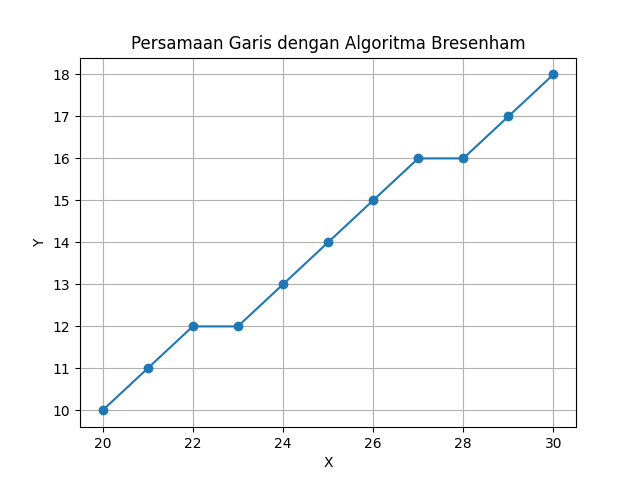
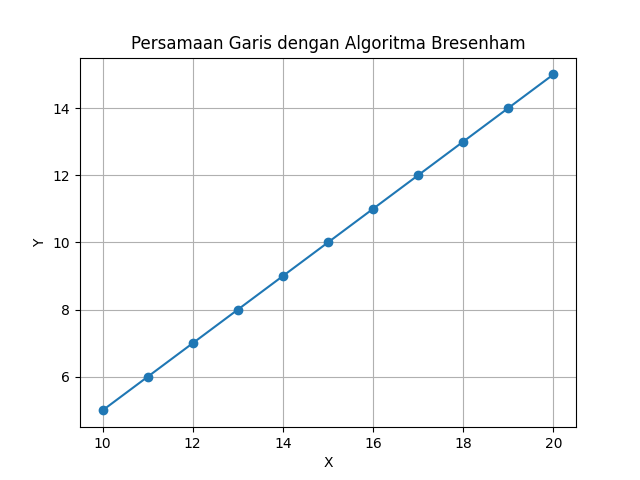
Add files via upload

diff --git a/bresenham.py b/bresenham.py
@@ -2,8 +2,8 @@ import matplotlib.pyplot as plt
 import numpy as np
 
 # Titik Awal dan Titik Akhir
-x0, y0 = 20, 10
-x1, y1 = 30, 18
+x0, y0 = 10, 5
+x1, y1 = 20, 15
 
 # Menghitung delta
 dx = abs(x1 - x0)
